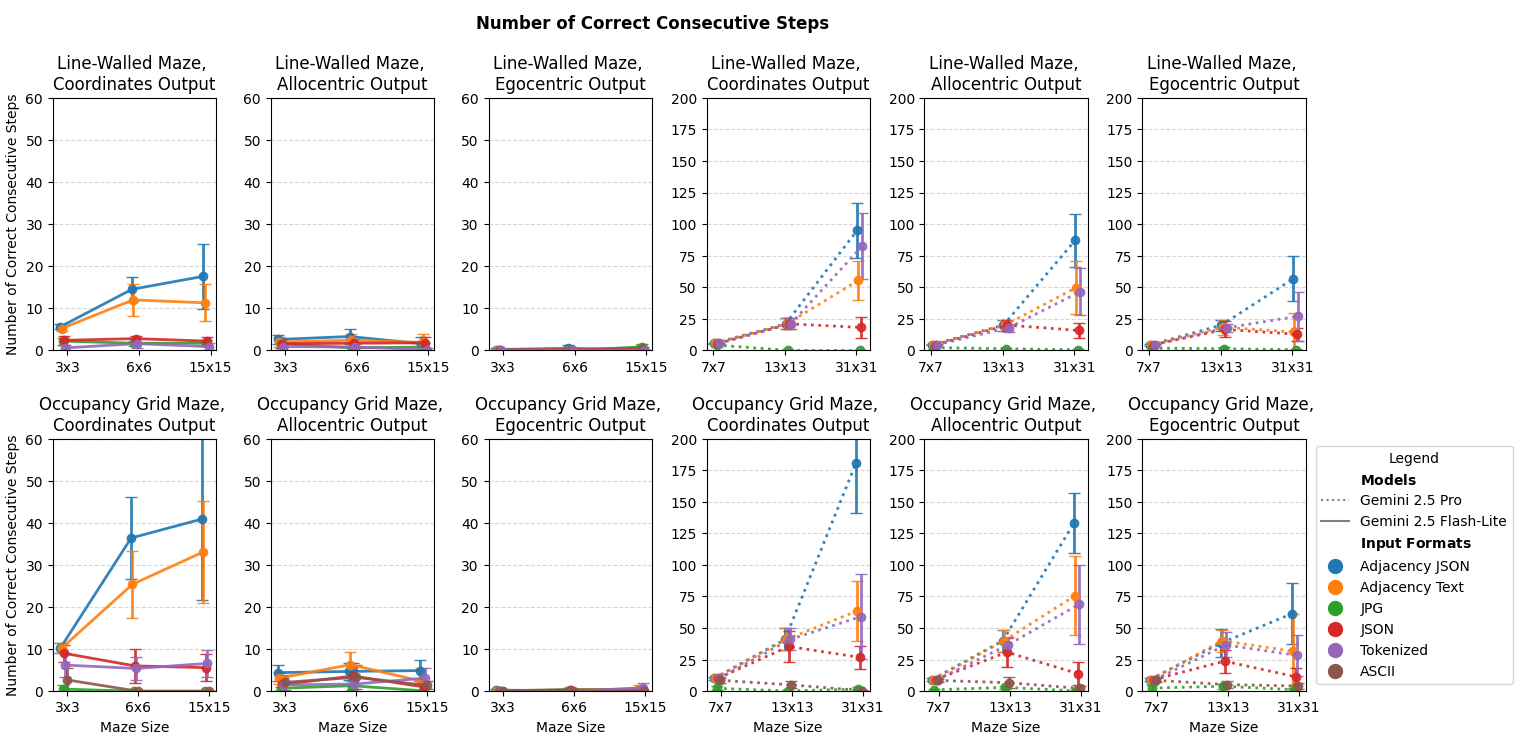
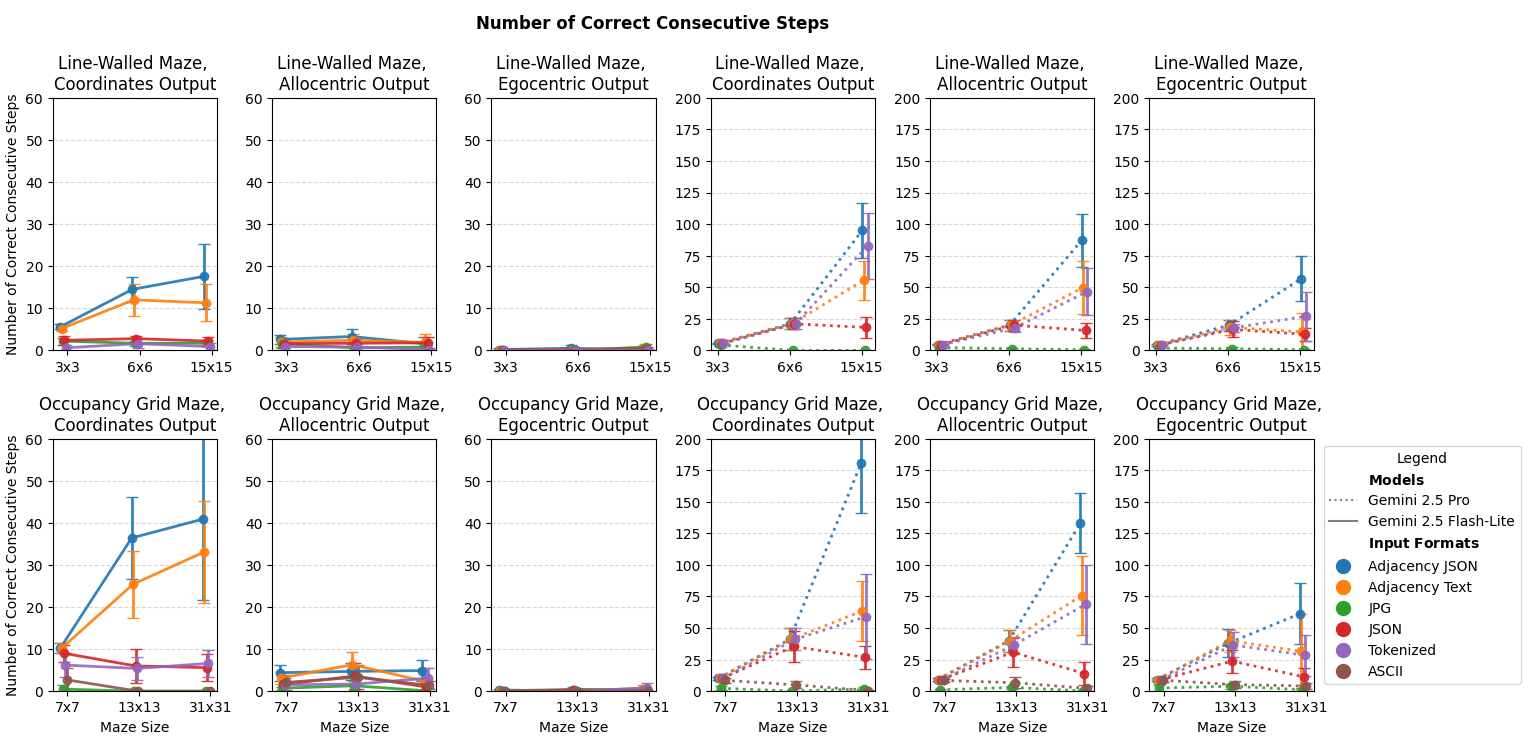
added code for heatmap. Still missing 15x15 data.

diff --git a/heatmap_Dataset03.py b/heatmap_Dataset03.py
@@ -1,0 +1,124 @@
+import numpy as np
+import matplotlib.ticker as mtick
+import matplotlib.pyplot as plt
+import results_Dataset03_3x3 as h
+import results_Dataset03_6x6 as i
+import results_Dataset03_15x15 as j
+
+representations_line = np.array(['JPG Line', 'JSON Line', 'JSON Adj Line', 'TXT Adj Line', 'Tokenized Line'])
+representations_occupancy = np.array(['JPG Occupancy', 'JSON Occupancy', 'JSON Adj Occupancy', 'TXT Adj Occupancy', 'Tokenized Occupancy', 'ASCII Occupancy'])
+
+occurrence_coords_3_line = np.array([0, 1, 1, 6, 0])/6*100   # make percentage by dividing by number of runs
+occurrence_coords_6_line = np.array([1, 10, 10, 10, 8])*10
+
+occurrence_coords_3_occ = np.array([ 0, 2, 5, 5, 4, 1])/6*100
+occurrence_coords_6_occ = np.array([ 2, 9, 10, 10, 8, 3])*10
+
+occurrence_allo_3_line = np.array([0, 3, 3, 4, 1])/6*100
+occurrence_allo_6_line = np.array([0, 10, 10, 10, 5])*10
+occurrence_allo_3_occ = np.array([ 0, 3, 5, 5, 2, 2])/6*100
+occurrence_allo_6_occ = np.array([ 0, 10, 10, 10, 8, 4])*10
+
+occurrence_ego_3_line = np.array([0, 0, 2, 4, 1])/6*100
+occurrence_ego_6_line = np.array([0, 9, 10, 9, 8])*10
+occurrence_ego_3_occ = np.array([0, 2, 3, 4, 1, 0])/6*100
+occurrence_ego_6_occ = np.array([0, 6, 10, 10, 1, 5])*10
+
+
+
+# Build heatmap matrices (rows = representations, cols = maze sizes)
+heatmap_coords_line = np.column_stack([occurrence_coords_3_line, occurrence_coords_6_line])
+heatmap_allo_line   = np.column_stack([occurrence_allo_3_line,  occurrence_allo_6_line])
+heatmap_ego_line = np.column_stack([occurrence_ego_3_line, occurrence_ego_6_line])
+heatmap_coords_occ = np.column_stack([occurrence_coords_3_occ, occurrence_coords_6_occ])
+heatmap_allo_occ   = np.column_stack([occurrence_allo_3_occ,  occurrence_allo_6_occ])
+heatmap_ego_occ   = np.column_stack([occurrence_ego_3_occ,  occurrence_ego_6_occ])
+
+
+
+maze_sizes_line = ['3x3', '6x6']
+maze_sizes_occ = ['7x7', '13x13']
+
+
+
+# Create figure with subplots
+fig, axes = plt.subplots(
+    nrows=2,
+    ncols=3,
+    figsize=(14, 8),
+    sharex=False,
+    sharey=False
+)
+
+# Map heatmaps to axes explicitly
+plot_map = {
+    (0, 0): (heatmap_coords_line, "Line-Walled Maze \nCoordinates Output"),
+    (0, 1): (heatmap_allo_line,   "Line-Walled Maze \nAllocentric Output"),
+    (0, 2): (heatmap_ego_line,   "Line-Walled Maze \nEgocentric Output"),
+    (1, 0): (heatmap_coords_occ,  "Occupancy Grid Maze \nCoordinates Output"),
+    (1, 1): (heatmap_allo_occ,    "Occupancy Grid Maze \nAllocentric Output"),
+    (1, 2): (heatmap_ego_occ,   "Occupancy Grid Maze \nEgocentric Output"),
+}
+
+# settings for plotting
+for (row, col), (data, title) in plot_map.items():
+    ax = axes[row, col]
+
+    im = ax.imshow(
+        data,
+        cmap="coolwarm",
+        aspect="auto",
+        vmin=0,
+        vmax=100
+    )
+
+    ax.set_title(title)
+
+    # Setting x-axis settings
+    if row == 0:
+        ax.set_xticks(np.arange(len(maze_sizes_line)))
+        ax.set_xticklabels(maze_sizes_line)
+        ax.set_xlabel("Maze Size")
+    else:
+        ax.set_xticks(np.arange(len(maze_sizes_occ)))
+        ax.set_xticklabels(maze_sizes_occ)
+        ax.set_xlabel("Maze Size")
+
+    # Setting y-axis settings
+    if col == 0:
+        if row == 0:
+            ax.set_yticks(np.arange(len(representations_line)))
+            ax.set_yticklabels(representations_line)
+        else:
+            ax.set_yticks(np.arange(len(representations_occupancy)))
+            ax.set_yticklabels(representations_occupancy)
+
+        ax.set_ylabel("Maze Representation")
+    else:
+        ax.set_yticks([])
+
+    # Add values in the cells
+    for i in range(data.shape[0]):
+        for j in range(data.shape[1]):
+            ax.text(
+                j, i, f"{data[i, j]:.0f}",
+                ha="center",
+                va="center",
+                fontsize=10,
+                color="black"
+            )
+
+# COlorbar settings
+cbar_ax = fig.add_axes([0.92, 0.15, 0.02, 0.7])
+cbar = fig.colorbar(im, cax=cbar_ax)
+cbar.set_label("Number of Occurrences")
+cbar.ax.yaxis.set_major_formatter(mtick.PercentFormatter(100))
+
+# Figure title and layout
+fig.suptitle(
+    "Heatmaps of Reasoning Occurrences by Representation",
+    fontweight="bold"
+)
+
+plt.tight_layout(rect=[0, 0, 0.9, 0.95])
+plt.show()

diff --git a/charts_Dataset03.py b/charts_Dataset03.py
@@ -2626,7 +2626,13 @@ for col in range(6):
         # ax.set_title(plot_configs[col][4], fontsize=11)
         ax.grid(axis='y', linestyle='--', alpha=0.5)
 
-        if col < 3:
+        if col < 3 and row == 0:
+            ax.set_xticks(x_vals)
+            ax.set_xticklabels(x_tick_lbls_line)
+        elif col < 3 and row == 1:
+            ax.set_xticks(x_vals)
+            ax.set_xticklabels(x_tick_lbls_occupancy)
+        elif col >= 3 and row == 0:
             ax.set_xticks(x_vals)
             ax.set_xticklabels(x_tick_lbls_line)
         else:

diff --git a/Dataset 03/Dataset 03 6x6 5/comparison_report_reasoning_ego_5.md b/Dataset 03/Dataset 03 6x6 5/comparison_report_reasoning_ego_5.md
@@ -854,7 +854,8 @@ Eventually, after *many* incorrect turns, I found the correct path. I then conve
 
 This careful step-by-step process, which I double checked for correctness, provides the solution to the maze, in agent-understandable instructions.
 
-```text
+```
+text
 Forward,Forward,Forward,Forward,Left,Forward,Left,Forward,Forward,Forward,Right,Forward,Right,Forward,Left,Forward,Right,Forward,Forward,Forward,Left,Forward,Right,Forward,Forward,Forward,Left,Forward
 ```
 
@@ -885,7 +886,8 @@ Eventually, after *many* incorrect turns, I found the correct path. I then conve
 
 This careful step-by-step process, which I double checked for correctness, provides the solution to the maze, in agent-understandable instructions.
 
-```text
+```
+text
 Forward,Forward,Forward,Forward,Left,Forward,Left,Forward,Forward,Forward,Right,Forward,Right,Forward,Left,Forward,Right,Forward,Forward,Forward,Left,Forward,Right,Forward,Forward,Forward,Left,Forward
 ```
 """,
@@ -949,7 +951,8 @@ Eventually, after *many* incorrect turns, I found the correct path. I then conve
 
 This careful step-by-step process, which I double checked for correctness, provides the solution to the maze, in agent-understandable instructions.
 
-```text
+```
+text
 Forward,Forward,Forward,Forward,Left,Forward,Left,Forward,Forward,Forward,Right,Forward,Right,Forward,Left,Forward,Right,Forward,Forward,Forward,Left,Forward,Right,Forward,Forward,Forward,Left,Forward
 ```
 """,
